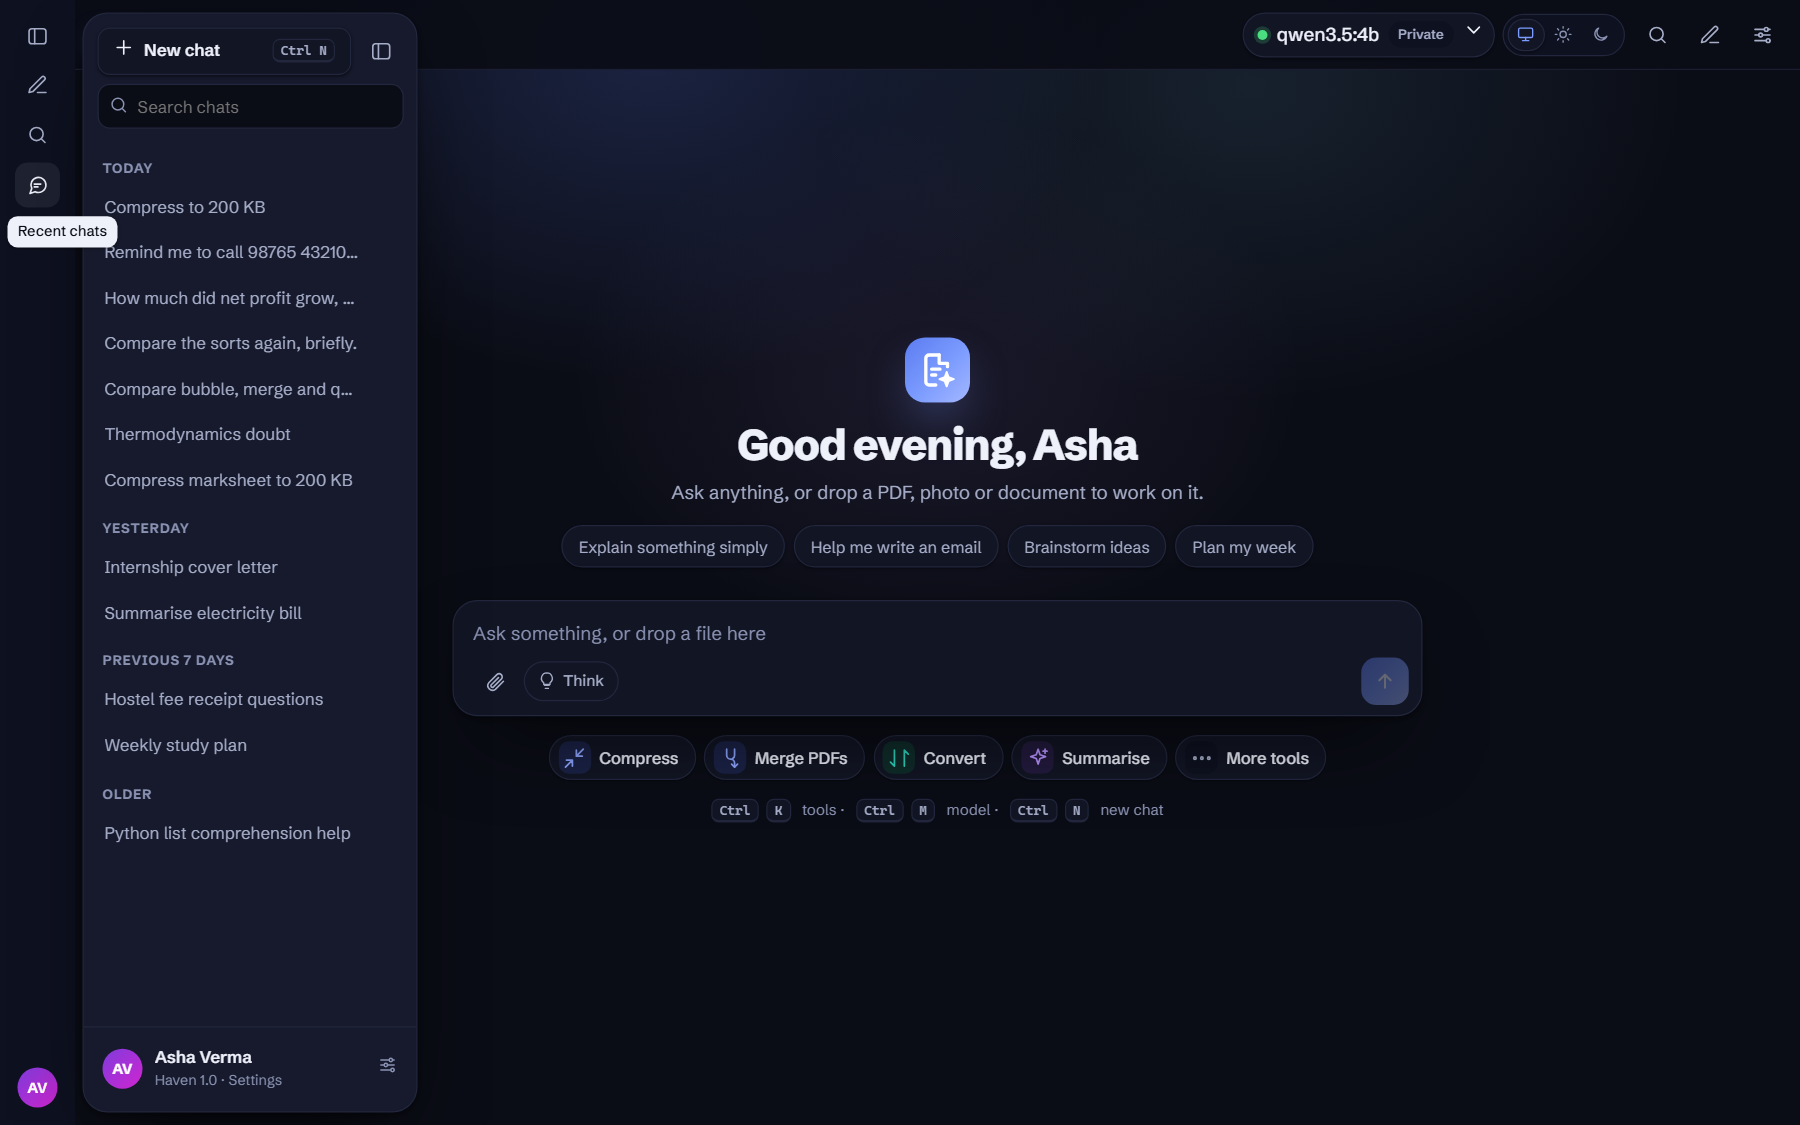
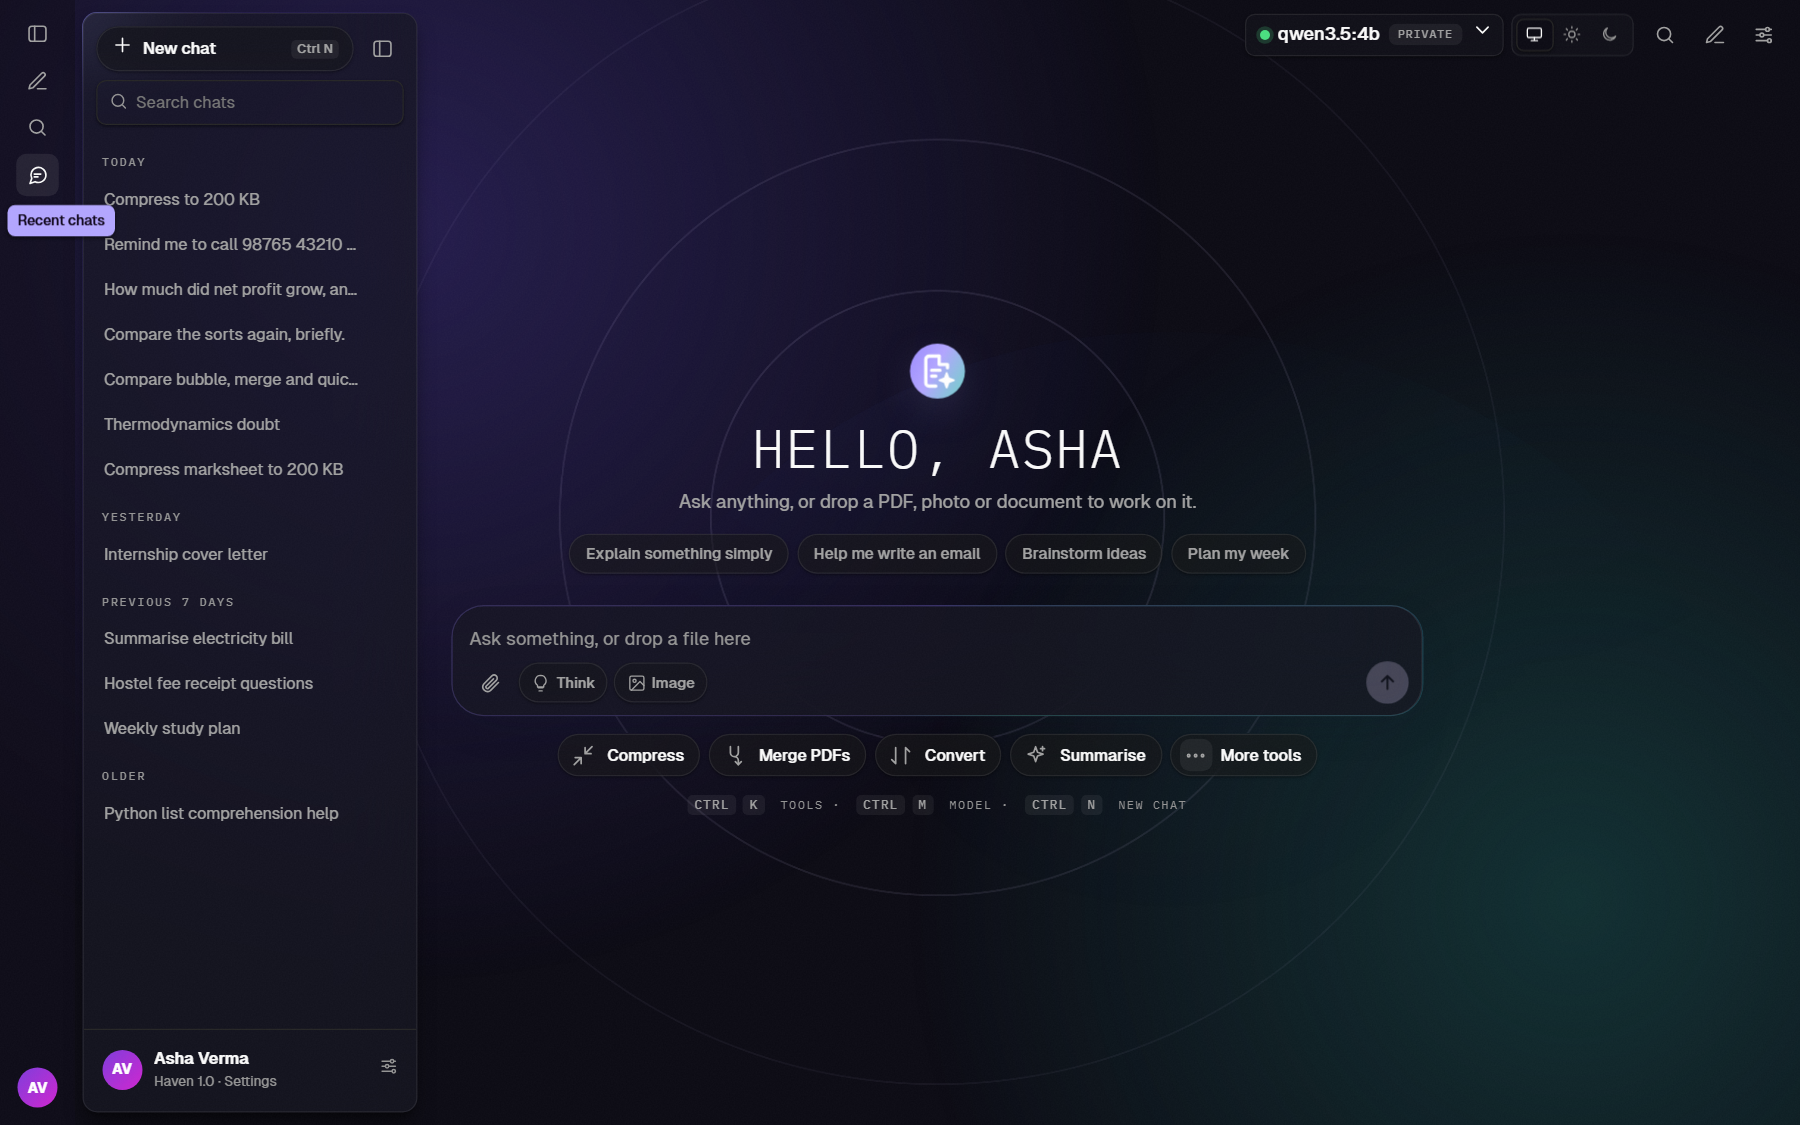
Haven 1.1.0: README with new screenshots, image generation section
Fresh screenshots of the new look (17, including making a picture and Settings > Images),
a Make pictures section, privacy table entry for images, version 1.1.0.

diff --git a/haven/web/index.html b/haven/web/index.html
@@ -590,7 +590,7 @@ kbd{font:600 .7rem var(--mono);padding:.12rem .38rem;border:1px solid var(--line
       </div>
       <div class="side-search"><span id="ic-cq"></span><input id="cq" placeholder="Search chats" autocomplete="off" spellcheck="false" aria-label="Search chats"></div>
       <nav class="convs" id="convs"></nav>
-      <div class="side-foot"><button class="me" id="me" title="Profile and settings"><span class="avatar" id="me-av"></span><span class="who"><span class="nm" id="me-nm">Set up your profile</span><span class="sub">Haven 1.0 · Settings</span></span><span id="me-gear"></span></button></div>
+      <div class="side-foot"><button class="me" id="me" title="Profile and settings"><span class="avatar" id="me-av"></span><span class="who"><span class="nm" id="me-nm">Set up your profile</span><span class="sub">Haven 1.1 · Settings</span></span><span id="me-gear"></span></button></div>
     </div>
   </aside>
 

diff --git a/haven/server.py b/haven/server.py
@@ -43,7 +43,7 @@ try:  # optional: iPhone HEIC photos
 except Exception:
     pass
 
-VERSION = "1.0.0"
+VERSION = "1.1.0"
 WEB = Path(__file__).parent / "web"
 TOKEN = os.environ.get("HAVEN_TOKEN", "")  # set by app.py for each launch
 RESULTS = {}  # id -> (filename, bytes): finished files waiting for the native Save dialog

diff --git a/README.md b/README.md
@@ -6,7 +6,7 @@
 
 Compress, merge, split and convert files without uploading them anywhere. Chat with local models through Ollama or LM Studio, or bring your own key for OpenAI, Claude, Gemini and ten more providers. Ask questions about 300-page PDFs and get answers with page numbers. Personal details are hidden before anything goes to the cloud.
 
-![Version](https://img.shields.io/badge/version-1.0.0-4F6BED) ![Windows 10/11](https://img.shields.io/badge/Windows-10%20%7C%2011-0078D4) ![Works offline](https://img.shields.io/badge/works-offline-15803D) ![License: MIT](https://img.shields.io/badge/license-MIT-7C3AED)
+![Version](https://img.shields.io/badge/version-1.1.0-6B56D6) ![Windows 10/11](https://img.shields.io/badge/Windows-10%20%7C%2011-0078D4) ![Works offline](https://img.shields.io/badge/works-offline-15803D) ![License: MIT](https://img.shields.io/badge/license-MIT-7C3AED)
 
 ![Haven home screen](docs/img/home-light.png)
 
@@ -21,6 +21,7 @@ I didn't want to keep uploading marksheets, ID scans and work documents to rando
 - [What it can do](#what-it-can-do)
 - [File tools](#file-tools)
 - [AI chat](#ai-chat)
+- [Make pictures](#make-pictures)
 - [Long PDFs with page citations](#long-pdfs-with-page-citations)
 - [Privacy Shield](#privacy-shield)
 - [Models and keys](#models-and-keys)
@@ -39,10 +40,11 @@ I didn't want to keep uploading marksheets, ID scans and work documents to rando
 | **Image tools** | Compress to a target size; convert between PNG, JPG, WebP, HEIC, BMP, TIFF, GIF and ICO |
 | **Convert anything** | Word, PowerPoint, Excel ↔ PDF; video → MP3 or GIF; audio formats; Markdown, HTML, CSV, JSON |
 | **AI chat** | Any model: Ollama and LM Studio on your PC, or OpenAI, Anthropic, Gemini, OpenRouter, Groq, xAI, DeepSeek, Mistral, Together, Fireworks, Cerebras, Hugging Face and any OpenAI-compatible server |
+| **Make pictures** | Ask for a picture in the chat: free FLUX.1 schnell on Hugging Face's free Space, Cloudflare Workers AI, Pollinations, or Gemini's Nano Banana models |
 | **Read your files** | Summaries, key points, practice questions, questions about a PDF with page citations, text from scans and photos |
 | **Writing help** | Fix grammar, make shorter, make professional, turn into an email, translate |
 | **Privacy** | Runs on `127.0.0.1` only, no accounts, no analytics; Privacy Shield for cloud models; keys in Windows Credential Manager |
-| **Comfort** | Saved chats with search, light and dark themes, math and code formatting, keyboard shortcuts, works at any display scaling |
+| **Comfort** | Saved chats with search, a calm pastel-haze design in light and dark, math and code formatting, keyboard shortcuts, works at any display scaling |
 
 <table>
 <tr>
@@ -50,7 +52,7 @@ I didn't want to keep uploading marksheets, ID scans and work documents to rando
 <td width="38%"><img src="docs/img/small-window-light.png" alt="Small window"></td>
 </tr>
 <tr>
-<td>Light and dark themes, or follow Windows.</td>
+<td>Light and dark themes, or follow Windows. A soft pastel haze with film grain and ripple rings, frosted-glass panels and gentle motion that rests when you're idle.</td>
 <td>Small windows and high display scaling: the sidebar turns into a drawer.</td>
 </tr>
 </table>
@@ -106,6 +108,25 @@ Press **Ctrl K** to search every tool. Tools that work with the files you've att
 <td><b>Collapsed sidebar.</b> Collapse the sidebar to a slim icon rail. Hover over it and your recent chats slide out; move away and they tuck back in.</td>
 </tr>
 </table>
+
+## Make pictures
+
+<img src="docs/img/image-dark.png" alt="A picture made in the chat" width="100%">
+
+Turn on **Image** in the chat box, or just ask: "draw…", "generate an image of…", "make me a logo…". Haven asks once whether you want a picture or a text answer.
+
+- **Pick the model** in the dropdown next to the Image button. Every model that can make a picture right now is listed, free ones first:
+  - **FLUX.1 schnell · Hugging Face Space · Free.** Uses Hugging Face's free public Space; a free Hugging Face token gives you your account's daily allowance.
+  - **FLUX.1 schnell · Cloudflare Workers AI · Free.** A daily free allowance with a free Cloudflare account.
+  - **Pollinations · Free.** No account at all (one picture every 45 seconds; pictures carry a small pollinations.ai mark).
+  - **Nano Banana models · Google Gemini** and **Stable Diffusion 3 · Hugging Face** need billing or credits on your key.
+- **Automatic** tries the free ones quietly, one after another, and only tells you which one made the picture.
+- If a model you picked can't make it, the answer says why in one line and offers **Try another model** buttons.
+- Pictures are saved as files in `%APPDATA%\Haven\images` (not in the chat database), with **Save** and **Copy** on each one. The Privacy Shield hides personal details in your description first.
+
+<img src="docs/img/settings-images-dark.png" alt="Settings: Images" width="100%">
+
+Set the services up in **Settings → Images**. Tokens are kept in Windows Credential Manager, like model keys; a Hugging Face key added under Models & keys works too.
 
 ## Long PDFs with page citations
 
@@ -199,6 +220,7 @@ Everything in your profile stays on your PC unless that switch is on, and with a
 | A cloud model, Privacy Shield **on** (default) | Your message, earlier messages in that chat and the text of attached PDFs, **with personal details replaced** by placeholders. |
 | A cloud model, Privacy Shield **off** | Your messages and files as written. A note in the chat says so. |
 | A cloud model with a photo or scanned PDF | Only after you say yes (once per chat). |
+| Making a picture | Your description (with personal details hidden by the Privacy Shield) goes to the image service you picked. |
 
 - The model picker and the line under the message box always show whether you're on a **Private** or a **Cloud** model.
 - Chats are stored in `%APPDATA%\Haven\haven.db` on your PC. Attached files aren't stored, only their names and sizes.
@@ -277,6 +299,7 @@ haven/server.py      FastAPI backend: file tools, settings, chats, providers, pr
 haven/providers/     one adapter per API style (OpenAI-compatible, Anthropic, Gemini, Ollama),
                      key detection, model lists and cache, popular-model catalog, key storage
 haven/chat.py        the chat pipeline: attachments, citations, Privacy Shield, saving answers
+haven/images.py      making pictures: Hugging Face Space, Cloudflare, Pollinations, Gemini
 haven/docs.py        PDF text per page, BM25 retrieval and page citations
 haven/shield.py      Privacy Shield detectors and placeholders
 haven/storage.py     chats in SQLite (with full-text search)
@@ -285,8 +308,8 @@ haven/web/           the interface: plain HTML, CSS and JavaScript, no build ste
 ```
 
 - **Backend:** Python, FastAPI, httpx, pypdf, pypdfium2, Pillow, SQLite. **Desktop window:** pywebview (Microsoft WebView2).
-- **Interface:** hand-written HTML, CSS and JavaScript. A small markdown renderer that never copies HTML from model answers, and KaTeX for math.
-- **Tests:** 530 automated tests: every file tool, every AI provider against fake servers (streaming, errors, cancelling), key handling, citations, the Privacy Shield, security (untrusted model output can't run scripts or load anything), and the interface itself in a real browser, including speed budgets. See [tests/README.md](tests/README.md).
+- **Interface:** hand-written HTML, CSS and JavaScript on the shadcn/ui design system (ported to plain CSS), with Geist and IBM Plex Mono bundled. A small markdown renderer that never copies HTML from model answers, and KaTeX for math.
+- **Tests:** 554 automated tests: every file tool, every AI provider against fake servers (streaming, errors, cancelling), key handling, citations, the Privacy Shield, security (untrusted model output can't run scripts or load anything), and the interface itself in a real browser, including speed budgets. See [tests/README.md](tests/README.md).
 
 ```bat
 .venv\Scripts\python.exe -m pip install -r requirements-dev.txt
@@ -298,7 +321,7 @@ haven/web/           the interface: plain HTML, CSS and JavaScript, no build ste
 ```bat
 build.bat
 ```
-This produces `dist\Haven\Haven.exe`. Pushing a tag such as `v1.0.0` also makes GitHub Actions build the app and attach the zip to a release.
+This produces `dist\Haven\Haven.exe`. Pushing a tag such as `v1.1.0` also makes GitHub Actions build the app and attach the zip to a release.
 
 ## License
 
